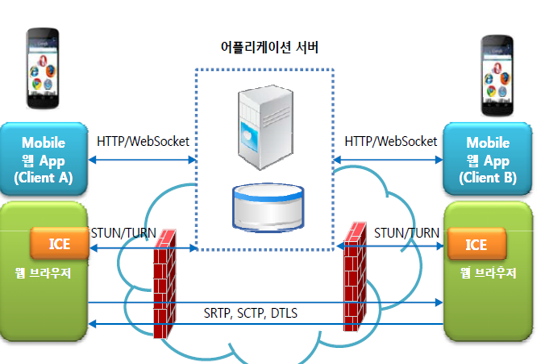
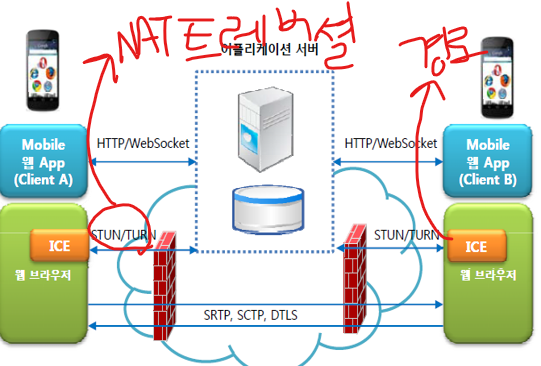
202106022044

diff --git a/note_ds.js b/note_ds.js
@@ -1982,11 +1982,16 @@ var answer = answer.concat(
 - 전송, 음성/영상 캡처 <br/>\
 - Network I/O 모듈 <br/><br/>\
 # 기술 요소 <br/>\
-- API : Media Stream, RTCPeerConnection, RTCDataChannel <br/>\
-- 통신 : STUN, TURN, ICE, SDP, STRP, JSEP <br/>\
-- 보안 : TLS/SSL <br/>\
-- 코덱 : llbc, Isac, Opus, VP8 <br/>\
-- 지터 : NetEQ, 비디오 지터 버퍼 <br/><br/>\
+1. API : Media Stream, RTCPeerConnection, RTCDataChannel <br/><br/>\
+2. 통신 <br/>\
+- STUN(Session Traversal Utilities for NAT) : 공인 IP, 포트 확인 프로토콜 / 유일 식별정보 반환<br/>\
+- TURN(Traversal Using Relay NAT) : STUN 대안, 네트워크 미디어 중개 서버 이용 <br/>\
+- ICE(Interactive Connectivity Establishment) : P2P 연결 최적 경로 찾아주는 프레임워크 <br/>\
+- SDP(Session Description Protocol) : 해상도, 형식, 코덱등 컨텐츠 초기 인수 설명 프로토콜 <br/>\
+- STRP, JSEP <br/><br/>\
+3. 보안 : TLS/SSL <br/><br/>\
+4. 코덱 : llbc, Isac, Opus, VP8 <br/><br/>\
+5. 지터 : NetEQ, 비디오 지터 버퍼 <br/><br/>\
 # 동향 <br/>\
 - MS : Skype for Web Messagin Service (WebRTC 수용) <br/>\
 - Amazon : 태블릿 PC 킨들 파이어에 WebRTC 세션을 통한 기술지원담당자 연결기능 제공 <br/>\
